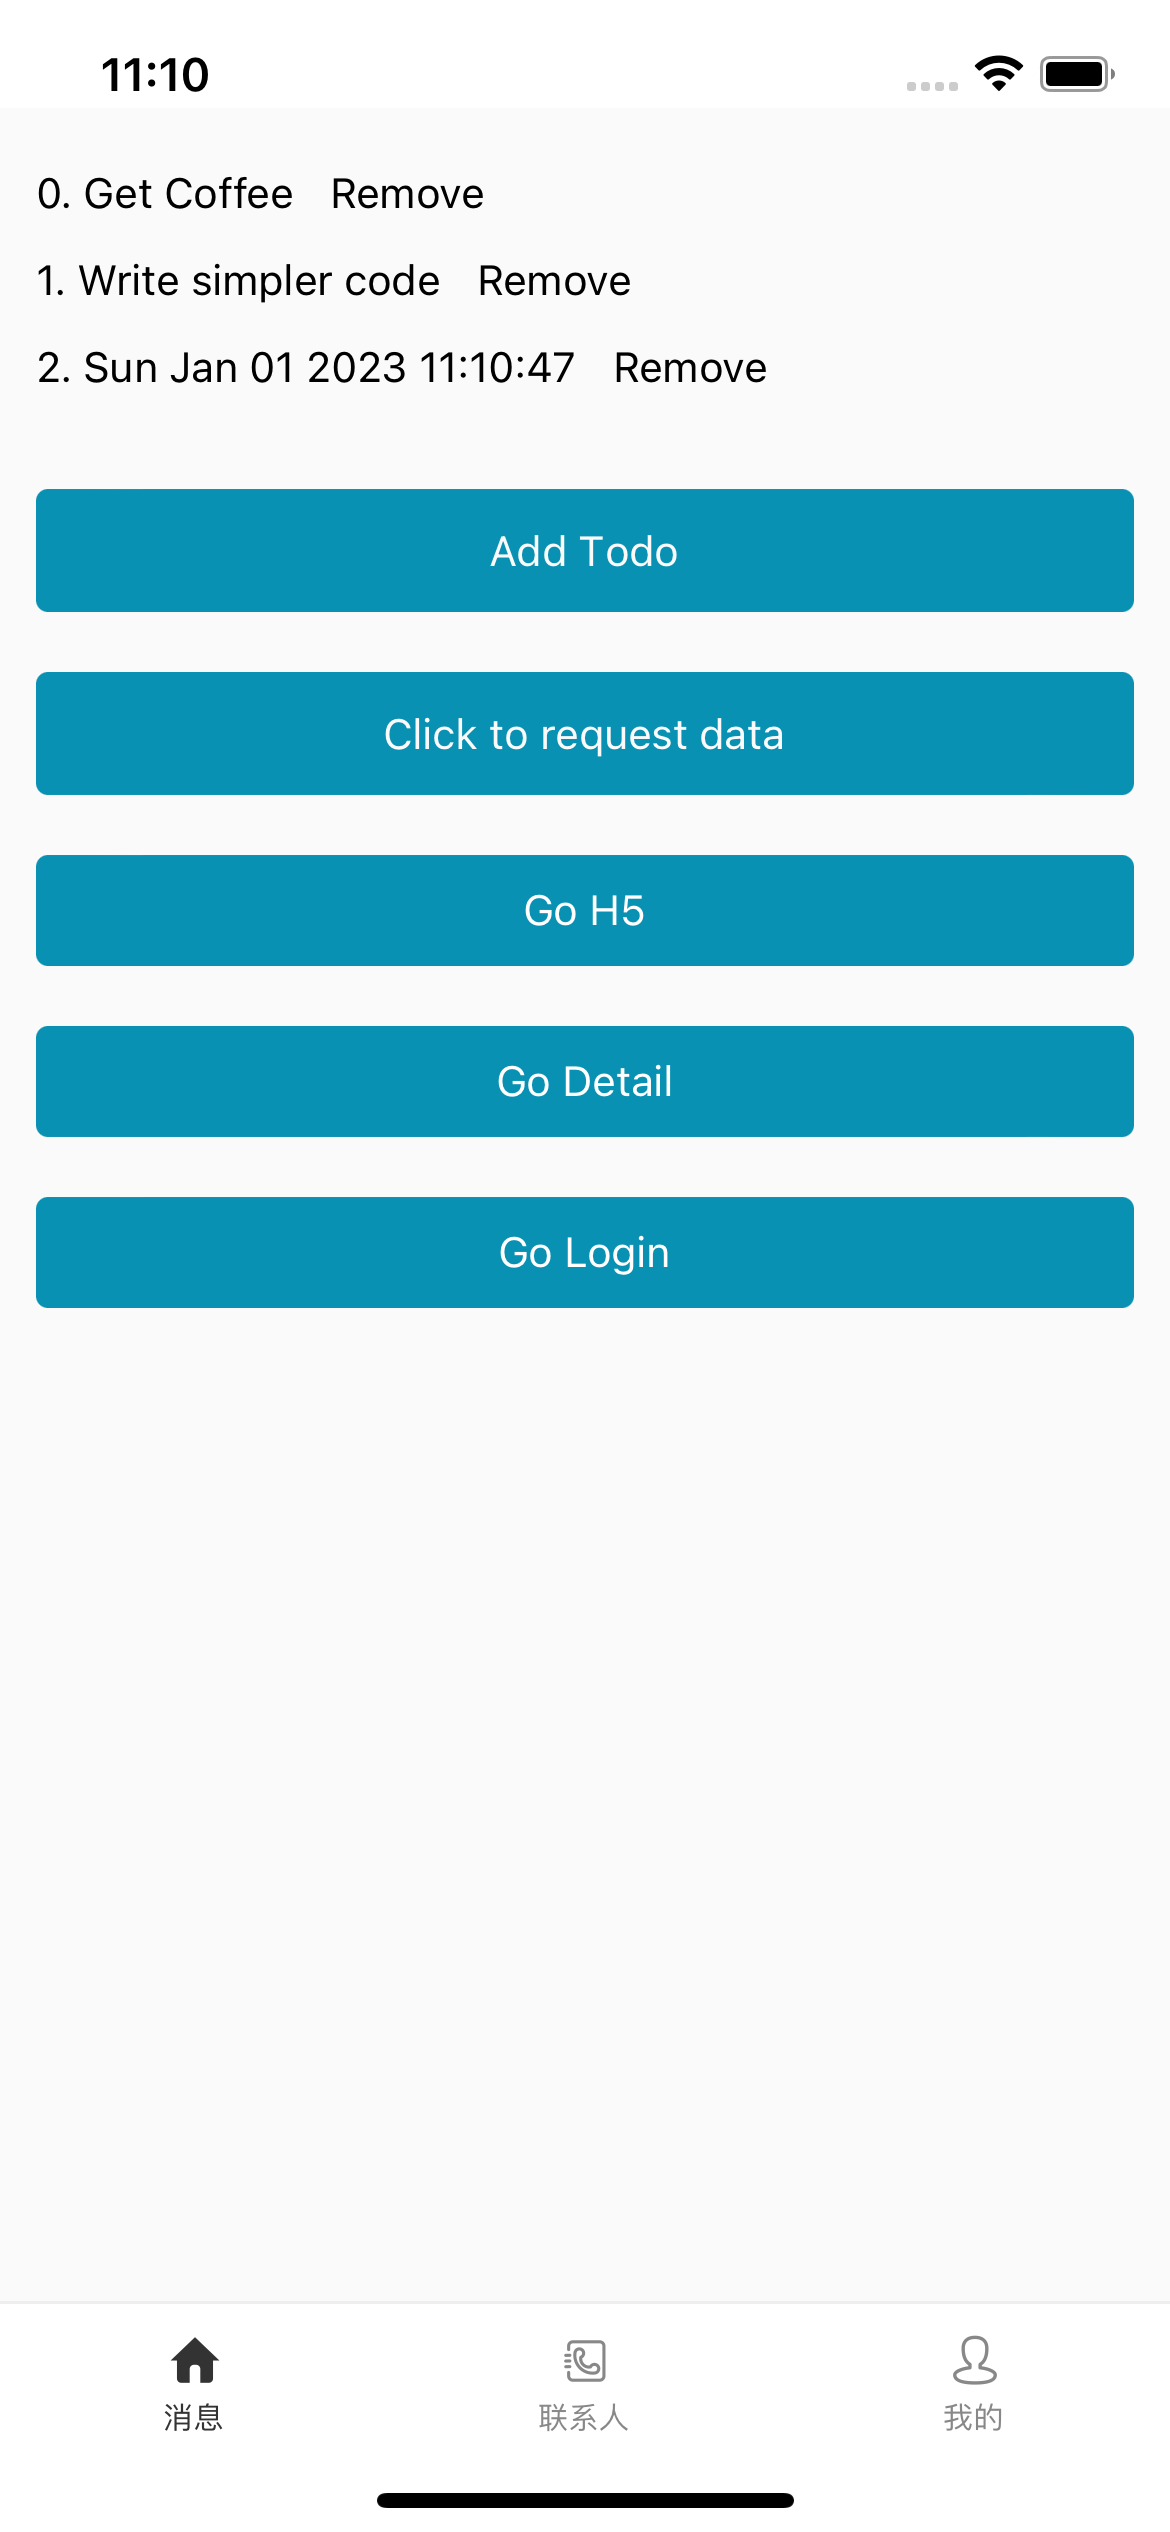
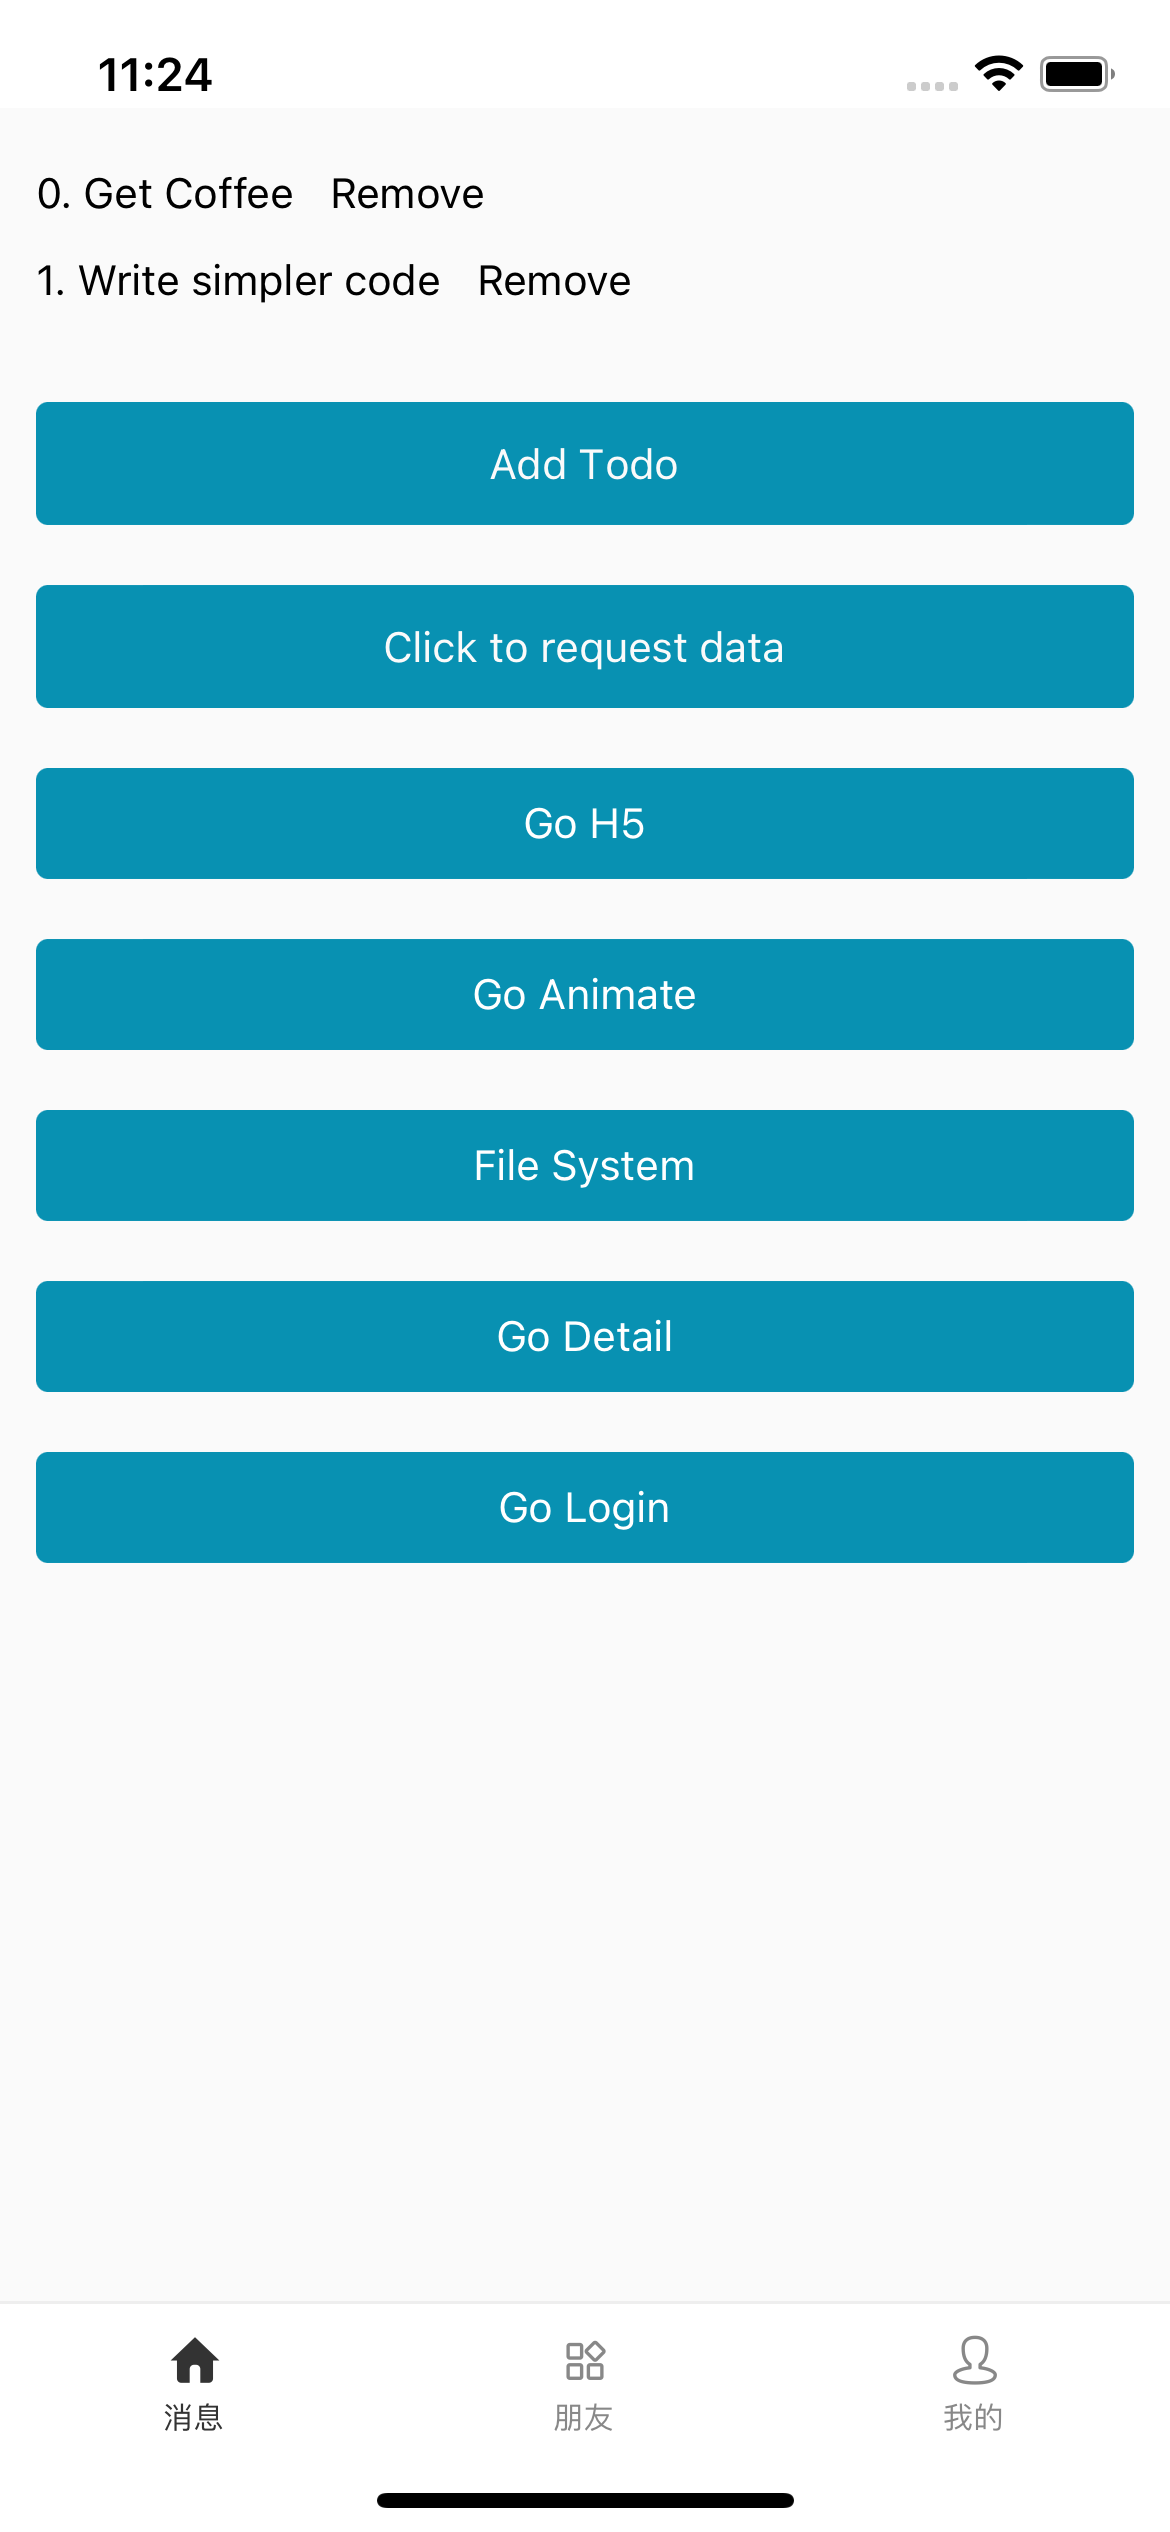
chore: add react-native-fs

diff --git a/src/pages/fs/index.tsx b/src/pages/fs/index.tsx
@@ -1,0 +1,62 @@
+/*
+ * @Author: GaoXiong
+ * @LastEditors: GaoXiong
+ * @Date: 2023-04-11 22:58:42
+ * @LastEditTime: 2023-04-11 23:20:52
+ * @FilePath: /react-native-template/src/pages/fs/index.tsx
+ * @Description:
+ */
+import * as React from 'react';
+import {Text} from 'react-native';
+import {observer} from 'mobx-react-lite';
+import BPage from '@/baseUI/BPage';
+import {Button, View} from 'native-base';
+import RNFS from 'react-native-fs';
+
+export const FsScreen = observer(() => {
+  const create = () => {
+    // create a path you want to write to
+    // :warning: on iOS, you cannot write into `RNFS.MainBundlePath`,
+    // but `RNFS.DocumentDirectoryPath` exists on both platforms and is writable
+    const path = RNFS.DocumentDirectoryPath + '/test.txt';
+
+    console.log('clicked');
+
+    // write the file
+    RNFS.writeFile(path, 'hello world', 'utf8')
+      .then(() => {
+        console.log('FILE WRITTEN!');
+        console.log(path);
+        console.log();
+      })
+      .catch((err: any) => {
+        console.log(`Failed`);
+        console.log(err.message);
+      });
+  };
+
+  const download = async () => {
+    const path = RNFS.DocumentDirectoryPath + '/test.jpeg'
+    const res = RNFS.downloadFile({
+      fromUrl: 'http://s3.airtlab.com/a5.jpeg',
+      toFile:  path
+    })
+    const data = await res.promise;
+    console.log(`write res`, data)
+    console.log(`path: ${path}`)
+  }
+
+  return (
+    <BPage showNavBar={true}>
+      <View style={{paddingHorizontal: 12}}>
+        <Button onPress={() => create()}>
+          <Text style={{color: '#fff'}}>File Creation</Text>
+        </Button>
+
+        <Button style={{ marginTop: 10 }} onPress={() => download()}>
+          <Text style={{color: '#fff'}}>Download Image</Text>
+        </Button>
+      </View>
+    </BPage>
+  );
+});

diff --git a/src/navigator/index.tsx b/src/navigator/index.tsx
@@ -1,3 +1,11 @@
+/*
+ * @Author: GaoXiong
+ * @LastEditors: GaoXiong
+ * @Date: 2023-01-04 18:54:11
+ * @LastEditTime: 2023-04-11 23:01:13
+ * @FilePath: /react-native-template/src/navigator/index.tsx
+ * @Description: 
+ */
 import React from 'react';
 import {observer} from 'mobx-react-lite';
 import {
@@ -15,6 +23,7 @@ import MainTabScreen, {MainTabParamList} from './MainTab';
 import H5Screen from '@/pages/h5';
 import LoginScreen from '@/pages/login';
 import AnimateScreen from '@/pages/animate';
+import {FsScreen} from '@/pages/fs';
 
 export type RootStackParamList = {
   MainTab: NavigatorScreenParams<MainTabParamList>;
@@ -24,7 +33,8 @@ export type RootStackParamList = {
     title?: string;
   };
   Login: undefined;
-  AnimateScreen: undefined;
+  Animate: undefined;
+  Fs: undefined;
 };
 
 export type RootStackNavigation = StackNavigationProp<RootStackParamList>;
@@ -60,9 +70,14 @@ function RootStackScreen() {
           component={H5Screen}
         />
         <RootStack.Screen
-          name="AnimateScreen"
+          name="Animate"
           options={hideHeaderOptions}
           component={AnimateScreen}
+        />
+        <RootStack.Screen
+          name="Fs"
+          options={hideHeaderOptions}
+          component={FsScreen}
         />
       </RootStack.Group>
       <RootStack.Group screenOptions={{presentation: 'modal'}}>

diff --git a/src/pages/home/index.tsx b/src/pages/home/index.tsx
@@ -73,9 +73,18 @@ export const HomeScreen = observer(() => {
         <View style={{marginTop: 20, paddingHorizontal: 12}}>
           <Button
             onPress={() =>
-              navigation.navigate('AnimateScreen')
+              navigation.navigate('Animate')
             }>
             <Text style={{color: '#fff'}}>Go Animate</Text>
+          </Button>
+        </View>
+
+        <View style={{marginTop: 20, paddingHorizontal: 12}}>
+          <Button
+            onPress={() =>
+              navigation.navigate('Fs')
+            }>
+            <Text style={{color: '#fff'}}>File System</Text>
           </Button>
         </View>
 

diff --git a/src/utils/uuid.ts b/src/utils/uuid.ts
@@ -1,0 +1,7 @@
+export function uuid() {
+  return 'xxxxxxxx-xxxx-4xxx-yxxx-xxxxxxxxxxxx'.replace(/[xy]/g, function (c) {
+    let r = (Math.random() * 16) | 0;
+    let v = c == 'x' ? r : (r & 0x3) | 0x8;
+    return v.toString(16);
+  });
+}

diff --git a/src/utils/date.ts b/src/utils/date.ts
@@ -1,0 +1,9 @@
+/*
+ * @Author: GaoXiong
+ * @LastEditors: GaoXiong
+ * @Date: 2023-04-11 19:11:00
+ * @LastEditTime: 2023-04-11 19:11:20
+ * @FilePath: /react-native-template/src/utils/date.ts
+ * @Description: date format
+ */
+export {}

diff --git a/android/app/src/main/java/com/wowimrn/MainApplication.java b/android/app/src/main/java/com/wowimrn/MainApplication.java
@@ -1,3 +1,11 @@
+/*
+ * @Author: GaoXiong
+ * @LastEditors: GaoXiong
+ * @Date: 2023-01-04 18:54:10
+ * @LastEditTime: 2023-04-11 22:50:43
+ * @FilePath: /react-native-template/android/app/src/main/java/com/wowimrn/MainApplication.java
+ * @Description: 
+ */
 package com.wowimrn;
 
 import android.app.Application;
@@ -12,6 +20,7 @@ import com.facebook.soloader.SoLoader;
 import com.wowimrn.newarchitecture.MainApplicationReactNativeHost;
 import java.lang.reflect.InvocationTargetException;
 import java.util.List;
+import com.rnfs.RNFSPackage; 
 
 public class MainApplication extends Application implements ReactApplication {
 

diff --git a/README.md b/README.md
@@ -18,6 +18,7 @@ react native template
 | 消息推送 | [react-native-push-notification](https://github.com/zo0r/react-native-push-notification#readme)                         |
 | 日志工具 | [react-native-logs](https://github.com/onubo/react-native-logs)                                                         |
 | 动画     | [lottie-react-native](https://github.com/lottie-react-native/lottie-react-native) [lottie](https://airbnb.io/lottie/#/) |
+| 文件管理 | [react-native-fs](https://github.com/itinance/react-native-fs) |
 | 分包拆包 | TODO                                                                                                                    |
 
 ### 2.2 内部架构
@@ -139,9 +140,12 @@ npx iconfont-rn
     <td><img src="./screenshot/full_bg.png" style="width: 240px" /></td>
     <td><img src="./screenshot/login_screen.png" style="width: 240px" /></td>
   </tr>
-    <tr>
+  <tr>
     <td><img src="./screenshot/me_un_login.png" style="width: 240px" /></td>
     <td><img src="./screenshot/me_login.png" style="width: 240px" /></td>
     <td><img src="/screenshot/animate.gif" style="width: 240px" /></td>
+  </tr>
+  <tr>
+    <td><img src="./screenshot/fs.png" style="width: 240px" /></td>
   </tr>
 </table>
